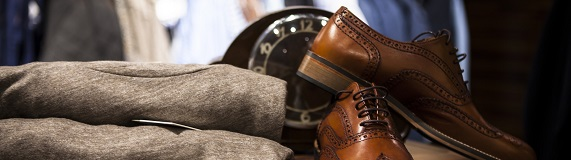
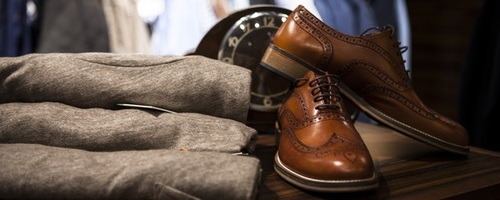
Baners

diff --git a/public/js/jScript.js b/public/js/jScript.js
@@ -19,7 +19,7 @@ $().ready(function(){
           'opacity': 0.5,
           'margin': 0,
           'margin-right': 10,
-           'border-radius': 15
+
 
            }, 500);
     }).mouseleave(function(){
@@ -53,7 +53,7 @@ $().ready(function(){
       success:function(data){
          jQuery.each(data, function(key, value){
         
-            $('#getLastListings').append('<a href=singleListing/' + value.id + '><div id="ajaxListing" class="col-md-3"><img src="../public/uploads/list-id-' + value.id + '/' + value.image + '"   width="180px" alt="" class="img-thumbnail"><h3>Naziv:'+ value.name +'</h3>'
+            $('#getLastListings').append('<a href=singleListing/' + value.id + '><div id="ajaxListing" class="col-md-3"><img src="../public/uploads/list-id-' + value.id + '/' + value.image + '"   width="180px" alt=' + value.name + ' class="img-thumbnail"><h3>Naziv:'+ value.name +'</h3>'
               +  '<h4>Cena:'+value.price+ '. ' +value.currency+ '</h4><hr></div></a>');
          });
       }
@@ -355,8 +355,8 @@ $(window).scroll(function() {
             success:function(data){
 
                 jQuery.each(data, function(key, value){
-                    $('#getLastListings').append('<a href=singleListing/' + value.id + '><div id="ajaxListing" class="col-md-3"><img src="../public/uploads/list-id-' + value.id + '/img1.jpg"   width="180px" alt="" class="img-thumbnail"><h3>Naziv:'+ value.name +'</h3>'
-                        +  '<h4>Cena:'+value.price+ '. ' +value.currency+ '</h4><hr></div></a>');
+                    $('#getLastListings').append('<a href=singleListing/' + value.id + '><div id="ajaxListing" class="col-md-3"><img src="../public/uploads/list-id-' + value.id + '/img1.jpg"   width="180px" alt="" class="img-thumbnail"><h3>'+ value.name +'</h3>'
+                        +  '<h4>'+value.price+ '. ' +value.currency+ '</h4><hr></div></a>');
 
                 });
 

diff --git a/public/css/style.css b/public/css/style.css
@@ -24,12 +24,22 @@ body{
 .baner{ margin-bottom: 15px;}
 .baner h2{
     position: absolute;
-    font-size: 40px;
+    font-size: 30px;
     font-weight: bold;
-    top: 20px ;
+    bottom: 20px ;
     color: #fff;
-    font-family: "Helvetica Neue", Helvetica, Arial, sans-serif;
-    left:100px;
+    font-family:"Yu Gothic";
+    left:20px;
+
+}
+.baner h5{
+    position: absolute;
+    font-size: 15px;
+
+    bottom: 5px ;
+    color: #fff;
+    font-family: "Yu Gothic";
+    left:20px;
 
 }
 
@@ -205,7 +215,10 @@ header, footer {
 }
 
 #getLastListings{
-	
+	margin-top:20px;
+}
+#baner2{
+    margin-bottom: 20px;
 }
 #ajaxListing{
 	min-height: 400px;

diff --git a/resources/views/layouts/search.blade.php b/resources/views/layouts/search.blade.php
@@ -32,13 +32,19 @@
 </div>  </form>
 
 <div  class="container text-center baner">
-    <div  class="col-md-6">
-        <img src="../public/baners/nails.jpg" class="img-responsive" alt="Aleksandra nails 066/32-61-90">
-        <h2 >Aleksandra nails</h2>
+
+    <div class="row">
+      <a href="http://www.mihailovic.rs/">  <div class="col-md-4">
+            <img src="../public/baners/BCSMihailovic1.JPG" alt="Mihajlovic bosh" class=" img-responsive" >
+          </div></a>
+
+       <a href="https://www.facebook.com/aleksandra.milosavljevic.501"> <div  class="col-md-4 baner" >
+            <img src="../public/baners/nails.jpg" class="img-thumbnail img-responsive" alt="Aleksandra nails 066/32-61-90">
+            <h2 >Aleksandra nails</h2>
+            <h5>Tel 064/32-61-900</h5>
+        </div></a>
+
+
     </div>
 
-    <div class="col-md-6  baner">
-        <a href="http://www.obucacvrcak.com"><img src="../public/baners/cvrcak.jpg" class="img-responsive"> </a>
-        <h2 >Obuća cvrčak</h2>
-    </div>
 </div>

diff --git a/resources/views/layouts/central.blade.php b/resources/views/layouts/central.blade.php
@@ -104,7 +104,22 @@ $('body').css({'opacity':'1','background-color':'white'});
    <div class="col-lg-pull-6 col-md-pull-5 col-xs-pull-5  col-md-pull-5 loader"></div>
 
 
-   <div id="getLastListings" class="row text-center"><h1 id="text"><strong>Najnoviji oglasi</strong></h1></div>
+   <div id="getLastListings" class="container text-center">
+
+<div class="row" id="baner2">
+       <div class="col-md-3  baner">
+           <a href="http://www.obucacvrcak.com"><img src="../public/baners/cvrcak.jpg" class="img img-thumbnail img-responsive"> </a>
+           <h2>Obuća cvrčak</h2>
+           <h5>www.obucacvrcak.com</h5>
+
+       </div>
+
+       <div class="col-md-5">
+           <img src="../public/baners/scMihajlovic.JPG" alt="MihajlovicSC" class="img-thumbnail img-responsive">
+       </div>
+
+</div>
+   </div>
 
 
 

diff --git a/resources/views/app.blade.php b/resources/views/app.blade.php
@@ -5,7 +5,7 @@
         <meta http-equiv="X-UA-Compatible" content="IE=edge">
         <meta name="viewport" content="width=device-width, initial-scale=1">
 @yield('head')
-        <title>M-oglasi</title>
+        <title>oglasiM</title>
         <!-- Latest compiled and minified CSS -->
 <link rel="stylesheet" href="https://maxcdn.bootstrapcdn.com/bootstrap/3.3.7/css/bootstrap.min.css" integrity="sha384-BVYiiSIFeK1dGmJRAkycuHAHRg32OmUcww7on3RYdg4Va+PmSTsz/K68vbdEjh4u" crossorigin="anonymous">
 
